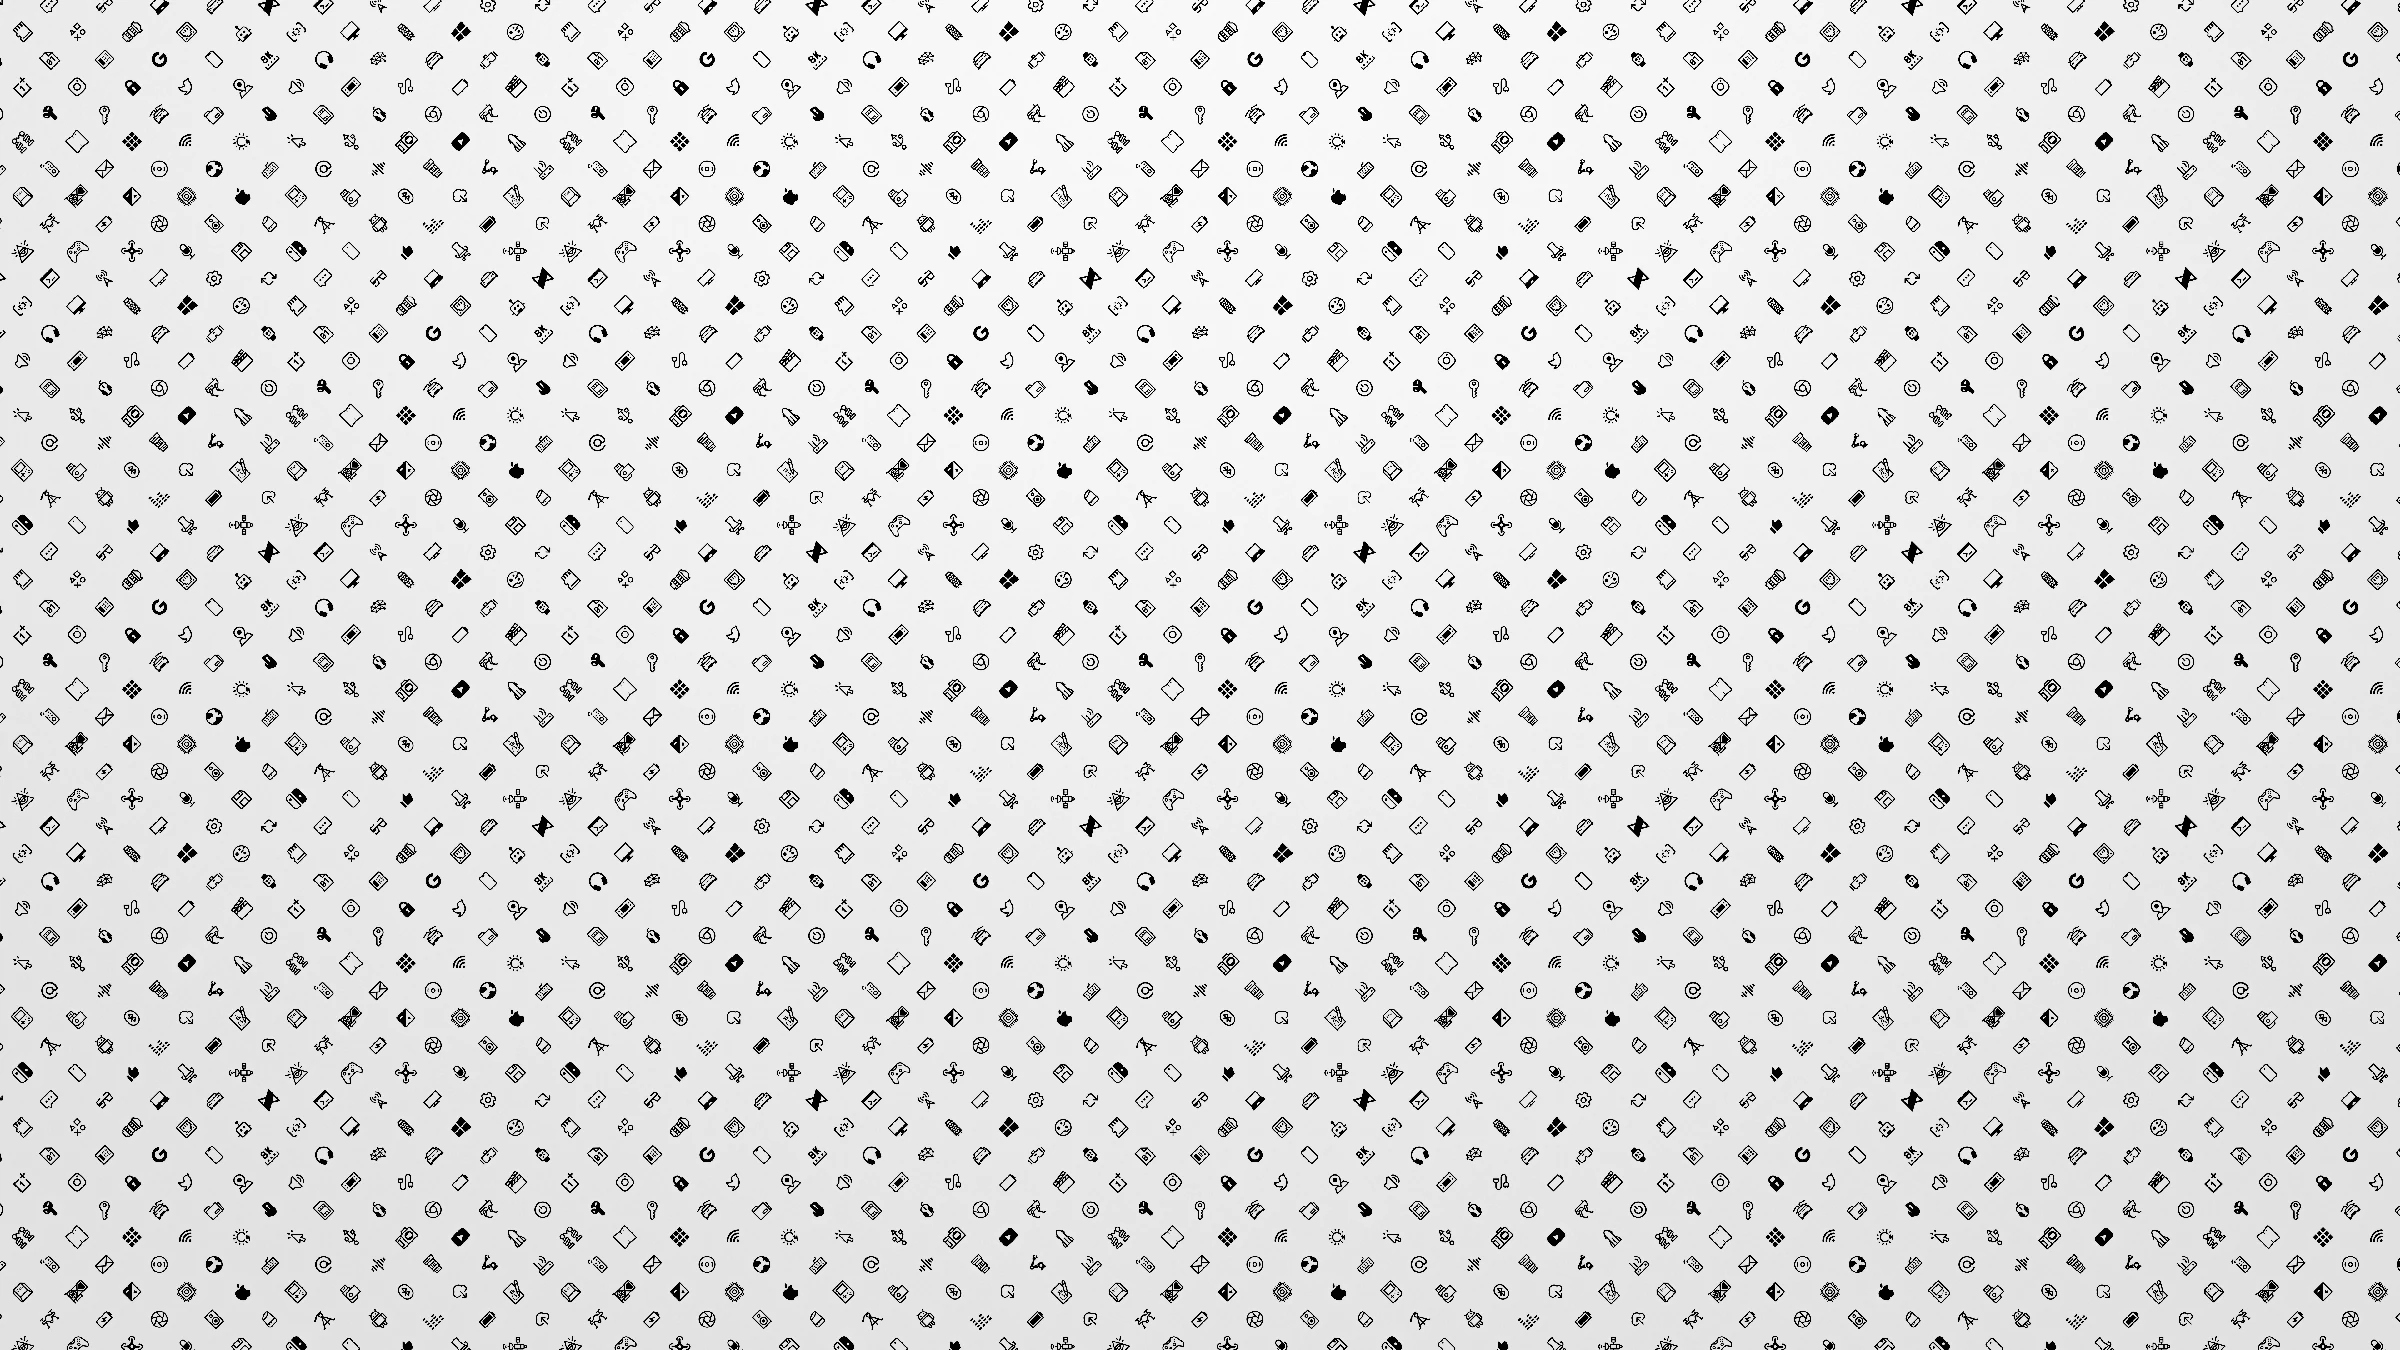
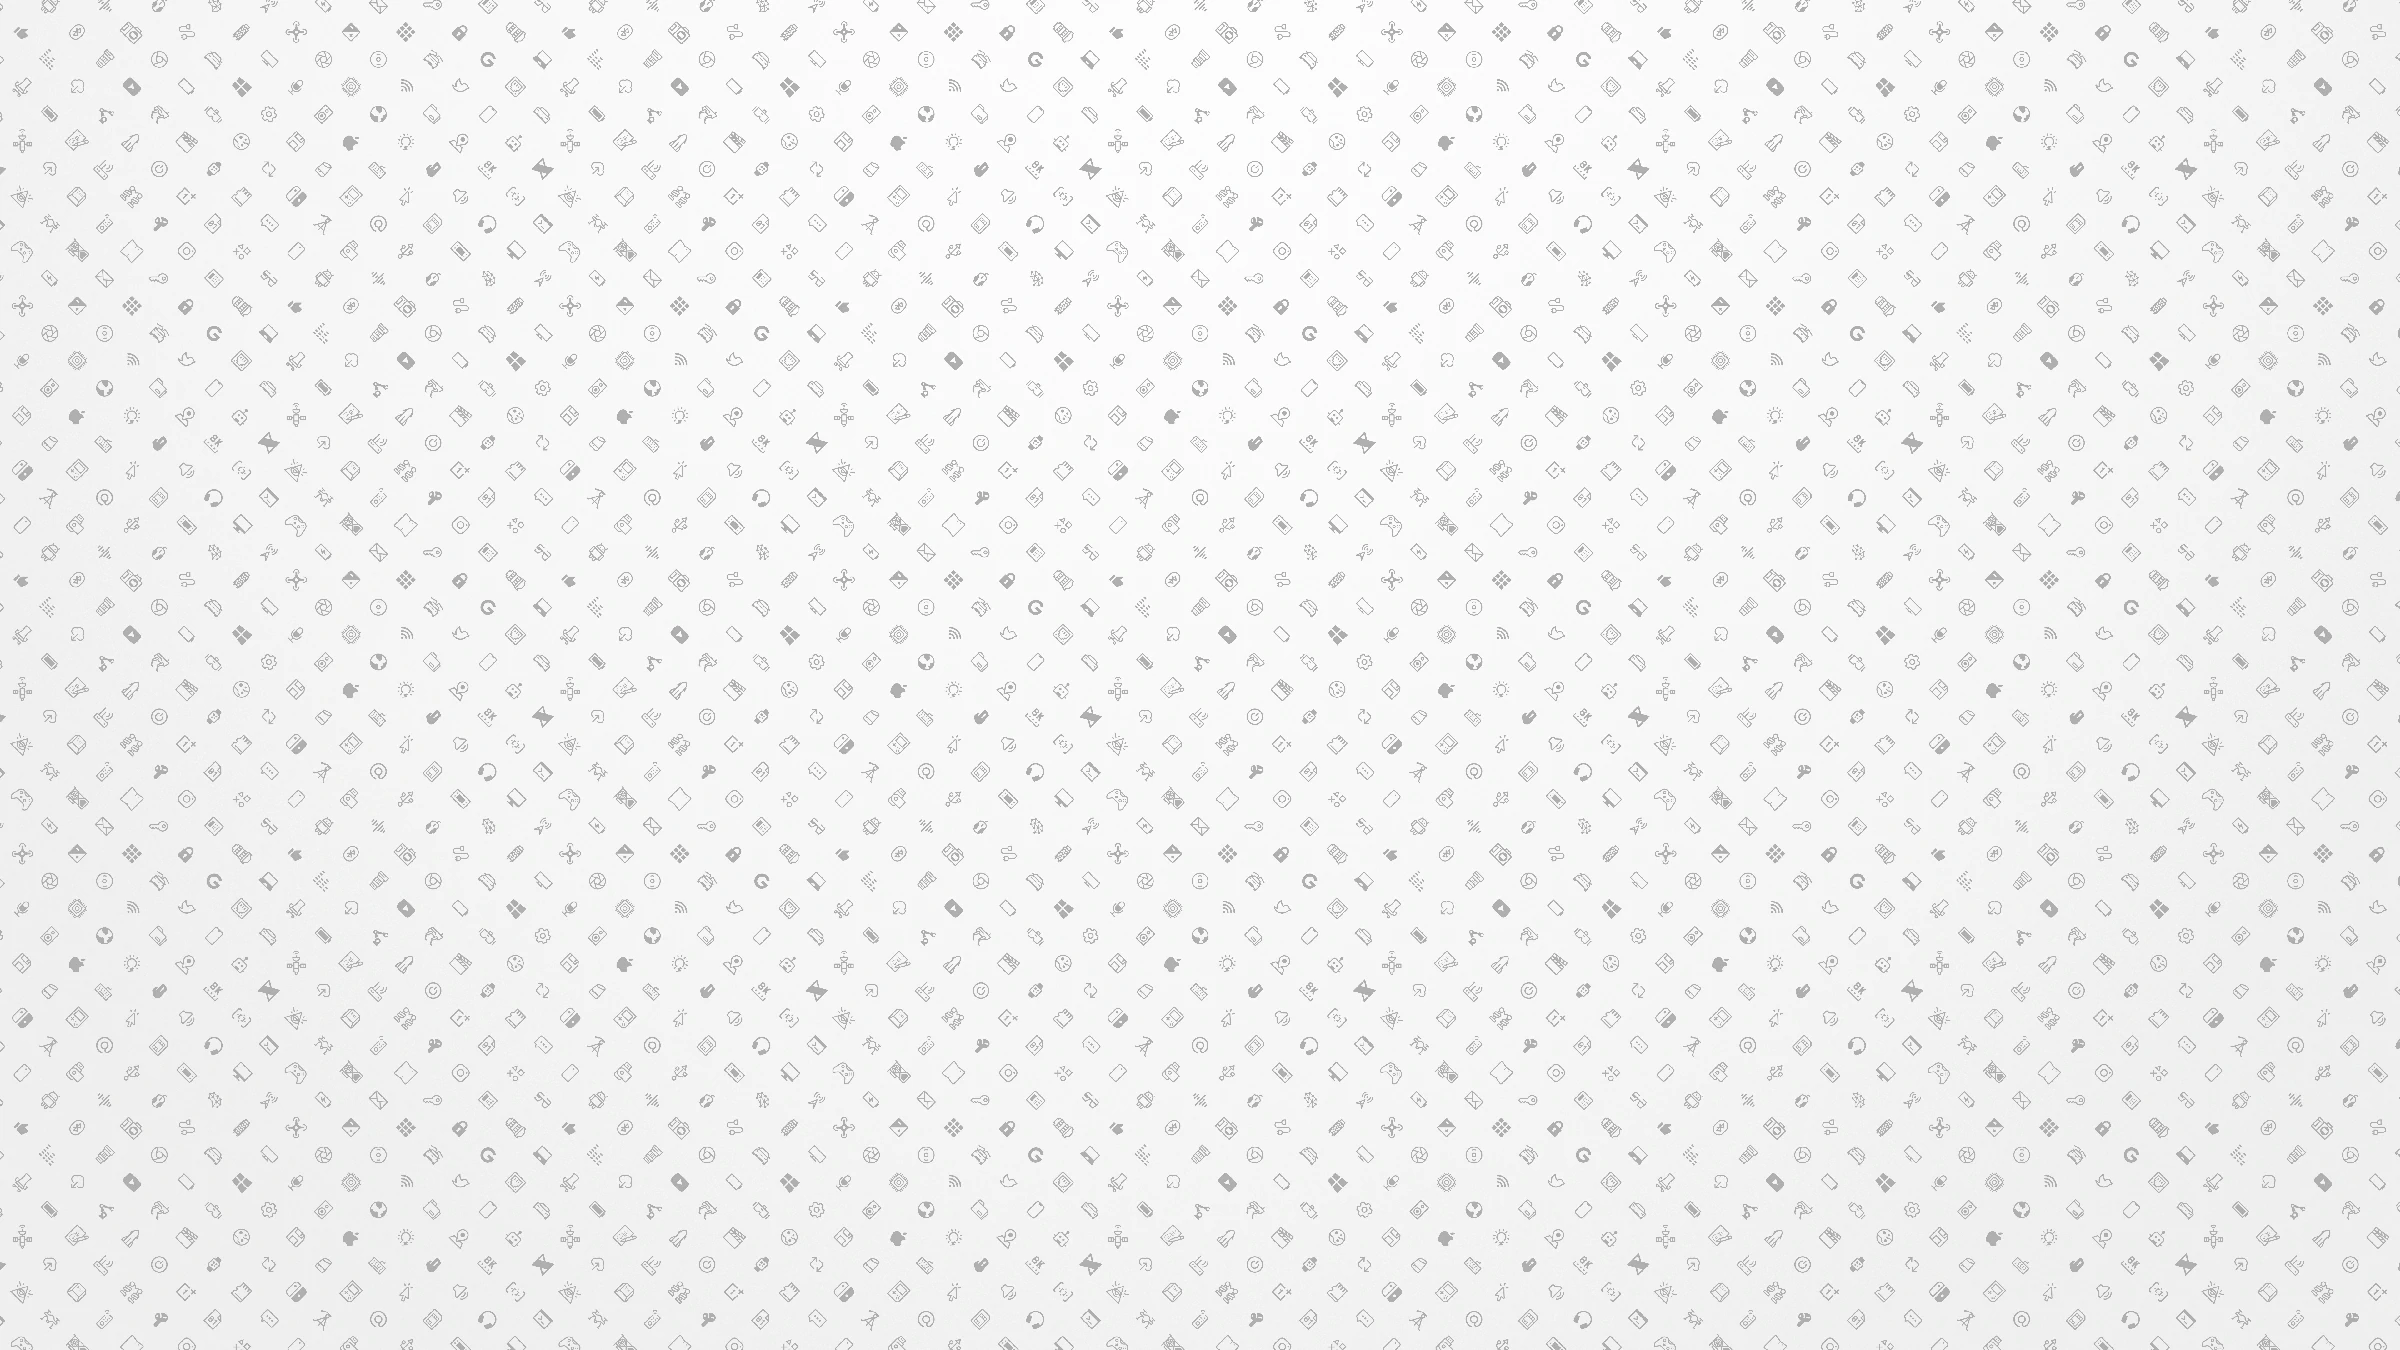
v0.2_beta

Changed region(s): [[0.0, 0.0, 1.0, 1.0], [0.9688, 0.0622, 1.0, 0.0933]]

diff --git a/script/chat_page.js b/script/chat_page.js
@@ -70,9 +70,7 @@ else
   currentConfig.nm=sessionStorage.getItem("nm");
   console.log(currentConfig.id,currentConfig.pic,currentConfig.nm);
 }
-//sessionStorage.setItem("id", "420");
-// sessionStorage.setItem("nm", "Khan");
-// sessionStorage.setItem("place", "null");
+
 
 document.querySelector(".profilePic").src=currentConfig.pic;
 document.querySelector(".userName").innerHTML=currentConfig.nm;
@@ -119,6 +117,7 @@ function bonomaya()
   document.querySelector("#bonomaya").setAttribute("class", "tab tabSelected placeNm");
   document.querySelector("#foodcourt").setAttribute("class", "tab placeNm");
   document.querySelector("#library").setAttribute("class", "tab placeNm");
+  document.querySelector("#other").setAttribute("class", "tab placeNm");
   document.querySelector(".conversation").innerHTML="";
   document.querySelector(".pNameInner").innerHTML="Bonomaya";
   document.querySelector(".msgView").style.visibility = 'visible';
@@ -130,7 +129,8 @@ function foodcourt()
   document.querySelector(".pPicInner").src="../image/food_court.jpg";
   document.querySelector("#bonomaya").setAttribute("class", "tab placeNm");
   document.querySelector("#foodcourt").setAttribute("class", "tab tabSelected placeNm");
-  document.querySelector("#library").setAttribute("class", "tab placeNm");  
+  document.querySelector("#library").setAttribute("class", "tab placeNm"); 
+  document.querySelector("#other").setAttribute("class", "tab placeNm"); 
   document.querySelector(".conversation").innerHTML="";
   document.querySelector(".pNameInner").innerHTML="Food Court";
   document.querySelector(".msgView").style.visibility = 'visible';
@@ -143,28 +143,49 @@ function library()
   document.querySelector(".pPicInner").src="../image/library.jpg";
   document.querySelector("#bonomaya").setAttribute("class", "tab placeNm");
   document.querySelector("#foodcourt").setAttribute("class", "tab placeNm");
-  document.querySelector("#library").setAttribute("class", "tab tabSelected placeNm");    document.querySelector(".conversation").innerHTML="";
+  document.querySelector("#library").setAttribute("class", "tab tabSelected placeNm");
+  document.querySelector("#other").setAttribute("class", "tab placeNm");
+  document.querySelector(".conversation").innerHTML="";
   document.querySelector(".pNameInner").innerHTML="Library";
+  document.querySelector(".msgView").style.visibility = 'visible';
+}
+
+function other()
+{
+  currentConfig.place="other";
+  sessionStorage.setItem("place", "other");
+  document.querySelector(".pPicInner").src="../image/library.jpg";
+  document.querySelector("#bonomaya").setAttribute("class", "tab placeNm");
+  document.querySelector("#foodcourt").setAttribute("class", "tab placeNm");
+  document.querySelector("#library").setAttribute("class", "tab placeNm");    
+  document.querySelector("#other").setAttribute("class", "tab tabSelected placeNm");
+  document.querySelector(".conversation").innerHTML="";
+  document.querySelector(".pNameInner").innerHTML="Random Persons from the Internet";
   document.querySelector(".msgView").style.visibility = 'visible';
 }
 
 on('click', '#bonomaya', function (e) {
   //if(e.id=="bonomaya")
   bonomaya();
-  select('body').classList.toggle('mobile-nav-active');
+  if(window.innerWidth<=786)
+    select('body').classList.toggle('mobile-nav-active');
   refresh();
 })
 
 on('click', '#foodcourt', function (e) {
-  //if(e.id=="bonomaya")
   foodcourt();
   select('body').classList.toggle('mobile-nav-active');
   refresh();
 })
 
 on('click', '#library', function (e) {
-  //if(e.id=="bonomaya")
   library();
+  select('body').classList.toggle('mobile-nav-active');
+  refresh();
+})
+
+on('click', '#other', function (e) {
+  other();
   select('body').classList.toggle('mobile-nav-active');
   refresh();
 })
@@ -184,7 +205,14 @@ function refresh()
 }
 refresh();
 
+on('click', '.KnockME', function (e) {
+  location.replace("https://yaminmahdi.github.io/KnockME/html/chat_page.htm");
+})
 
+on('click', '.logoutBtn', function (e) {
+  sessionStorage.clear();
+  location.replace("https://yaminmahdi.github.io/KnockME");
+})
 
 
 
@@ -226,7 +254,8 @@ function loadData(doc) {
   var conV = document.querySelector(".conversation");
   conV.appendChild(newMsg);
   conV.scrollTop = conV.scrollHeight;
-}
+};
+
 
 on('click', '.sendBtn', function (e) {
 
@@ -241,4 +270,12 @@ on('click', '.sendBtn', function (e) {
     "msg": document.querySelector(".editTxt").value 
   });
 
-})
+});
+
+var input = document.querySelector(".editTxt")
+input.addEventListener("keypress", function(event) {
+  if (event.key === "Enter") {
+    event.preventDefault();
+    document.querySelector(".sendBtn").click();
+  }
+});

diff --git a/css/chat_page.css b/css/chat_page.css
@@ -1,15 +1,50 @@
 body {
     margin: 0px;
     font-family: 'Trebuchet MS', 'Lucida Sans Unicode', 'Lucida Grande', 'Lucida Sans', Arial, sans-serif;
-    background-image: url(../image/bg5.webp);
+    background-image: url(../image/bg.webp);
 
 }
 p{
     margin: 0px;
 
 }
+.header
+{
+    margin: 20px;
+    margin-bottom: 0px;
+    display: flex;
+    justify-content: space-between;
+    align-items: center;
+    background: rgba(116, 183, 245, 0.103);
+    -webkit-backdrop-filter: saturate(180%) blur(7px);
+    backdrop-filter: saturate(180%) blur(7px);
+    box-shadow: rgba(0, 0, 0, 0.16) 0px 3px 4px, rgba(0, 0, 0, 0.23) 0px 3px 4px;
+    
+    border-radius: 10px;
+}
+.header img{
+    block-size: 100px;
 
+}
+.header a:visited {
+    color: rgb(250, 250, 250);
+  }
+.logoutBtn {
+    border: none;
+    margin-right: 15px;
+    border-radius: 10px;
+    padding: 7px 16px 7px 20px ;
+    background: rgba(241, 50, 50, 0.2);
+    -webkit-backdrop-filter: saturate(180%) blur(7px);
+    backdrop-filter: saturate(180%) blur(7px);
+    box-shadow: rgba(0, 0, 0, 0.16) 0px 3px 4px, rgba(0, 0, 0, 0.23) 0px 3px 4px; 
+    transition: all 0.4s;
 
+}
+.logoutBtn:hover{
+    background: rgba(241, 50, 50, 0.397);
+
+}
 .nav {
     display: flex;
     flex-direction: column;
@@ -17,17 +52,17 @@ p{
     margin: 20px;
     padding: 5px;
 
-    background: rgba(117, 116, 116, 0.2);
+    background: rgba(116, 183, 245, 0.103);
     -webkit-backdrop-filter: saturate(180%) blur(7px);
     backdrop-filter: saturate(180%) blur(7px);
     box-shadow: rgba(0, 0, 0, 0.16) 0px 3px 4px, rgba(0, 0, 0, 0.23) 0px 3px 4px;
     
     border-radius: 10px;
     position: fixed;
-    top: 0;
+    top: 123px;
     left: 0;
-    bottom: 0;
-    width: 200px;
+    bottom: 6px;
+    width: 260px;
     transition: all ease-in-out 0.5s;
     z-index: 2;
     transition: all 0.5s;
@@ -38,7 +73,7 @@ p{
 
 .container {
     display: flex;
-    height: 100vh;
+    height: calc(100vh - 130px);
     
 }
 .msgView {
@@ -49,10 +84,9 @@ p{
     display: flex;
     flex-direction: column;
     padding: 10px;
-    margin-left: 250px;
+    margin-left: 310px;
 
-    background: rgba(117, 116, 116, 0.2);
-
+    background: rgba(116, 183, 245, 0.103);
     box-shadow: rgba(0, 0, 0, 0.16) 0px 3px 6px, rgba(0, 0, 0, 0.23) 0px 3px 6px;
 
 }
@@ -188,15 +222,7 @@ p{
 
 
 }
-.conversation{
-        /* width: calc(100% - 300px); */
 
-    height:calc(100% - 150px); 
-    overflow:hidden; 
-    overflow-y:scroll;
-    padding-bottom: 10px;
-
-}
 .placeNm
 {
     display: flex;
@@ -216,6 +242,9 @@ p{
     backdrop-filter: saturate(180%) blur(7px);
 
 }
+.pNameInner{
+    margin-left: 5px;
+}
 .proPic {
     border-radius: 50%;
     block-size: 30px;
@@ -223,7 +252,15 @@ p{
     box-shadow: rgba(0, 0, 0, 0.16) 0px 2px 4px, rgba(0, 0, 0, 0.23) 0px 2px 4px;
 
 }
+.conversation{
+    /* width: calc(100% - 300px); */
 
+height:calc(100% - 150px); 
+overflow:hidden; 
+overflow-y:scroll;
+padding-bottom: 10px;
+
+}
 .otherMsg {
     display: flex;
     padding-top: 10px;

diff --git a/html/chat_page.htm b/html/chat_page.htm
@@ -5,6 +5,12 @@
     <meta http-equiv="X-UA-Compatible" content="IE=edge">
     <meta name="viewport" content="width=device-width, initial-scale=1.0">
     <title>KnockME</title>
+
+    <link rel="apple-touch-icon" sizes="180x180" href="../image/apple-touch-icon.png">
+    <link rel="icon" type="image/png" sizes="32x32" href="../image/favicon-32x32.png">
+    <link rel="icon" type="image/png" sizes="16x16" href="../image/favicon-16x16.png">
+    <link rel="manifest" href="../site.webmanifest">
+
     <link rel="stylesheet" href="../css/chat_page.css">
     
     <link rel="stylesheet" href="https://fonts.googleapis.com/css2?family=Material+Symbols+Outlined:opsz,wght,FILL,GRAD@20..48,100..700,0..1,-50..200" />
@@ -16,7 +22,15 @@
 </head>
 <body >
 
-    <header class="nav">
+    <header class="header">
+        <a href="#">
+            <img src="../image/logo.png" alt="KnockME" class="KnockME">
+        </a>
+        <button class="material-symbols-outlined logoutBtn" style="font-size:30px;color:rgb(224, 224, 224);">logout</button>
+
+        
+    </header>
+    <nav class="nav">
         <div class="userProfile" onclick="profile()">
             <img src="../image/dp.png" alt="" class="profilePic">
             <p class="userName"></p>
@@ -34,8 +48,12 @@
             <img src="../image/library.jpg" alt="" class="placePic">
             <p class="pName">Library</p>
         </div>
+        <div class="tab placeNm" id="other"">
+            <img src="../image/other.jpg" alt="" class="placePic">
+            <p class="pName">Random Persons</p>
+        </div>
         
-    </header>
+    </nav>
     <div class="container">
 
         <section class="msgView">

diff --git a/css/login.css b/css/login.css
@@ -1,6 +1,6 @@
 body {
     margin: 0px;
-    background-image: url(../image/bg5.webp);
+    background-image: url(../image/bg.webp);
     display: flex;
     align-items: center;
     justify-content: center;
@@ -20,10 +20,10 @@ body {
     flex-direction: column;
     justify-content: center;
     border-radius: 15px;
-    background: rgba(63, 183, 235, 0.589);
+    background: rgba(63, 183, 235, 0.39);
     box-shadow: rgba(0, 0, 0, 0.16) 0px 2px 4px, rgba(0, 0, 0, 0.23) 0px 2px 4px;
-    -webkit-backdrop-filter: saturate(180%) blur(7px);
-    backdrop-filter: saturate(180%) blur(7px);
+    -webkit-backdrop-filter: saturate(180%) blur(2px);
+    backdrop-filter: saturate(180%) blur(2px);
 }
 p{
     
@@ -33,6 +33,7 @@ p{
 .info{
     font-size:20px;
     margin-bottom: 50px;
+    text-align: center;
 }
 .status
 {

diff --git a/index.html b/index.html
@@ -6,6 +6,10 @@
     <meta http-equiv="X-UA-Compatible" content="IE=edge">
     <meta name="viewport" content="width=device-width, initial-scale=1.0">
     <title>KnockME - Login</title>
+    <link rel="apple-touch-icon" sizes="180x180" href="image/apple-touch-icon.png">
+    <link rel="icon" type="image/png" sizes="32x32" href="image/favicon-32x32.png">
+    <link rel="icon" type="image/png" sizes="16x16" href="image/favicon-16x16.png">
+    <link rel="manifest" href="site.webmanifest">
     <link rel="stylesheet" href="css/login.css">
 </head>
 
